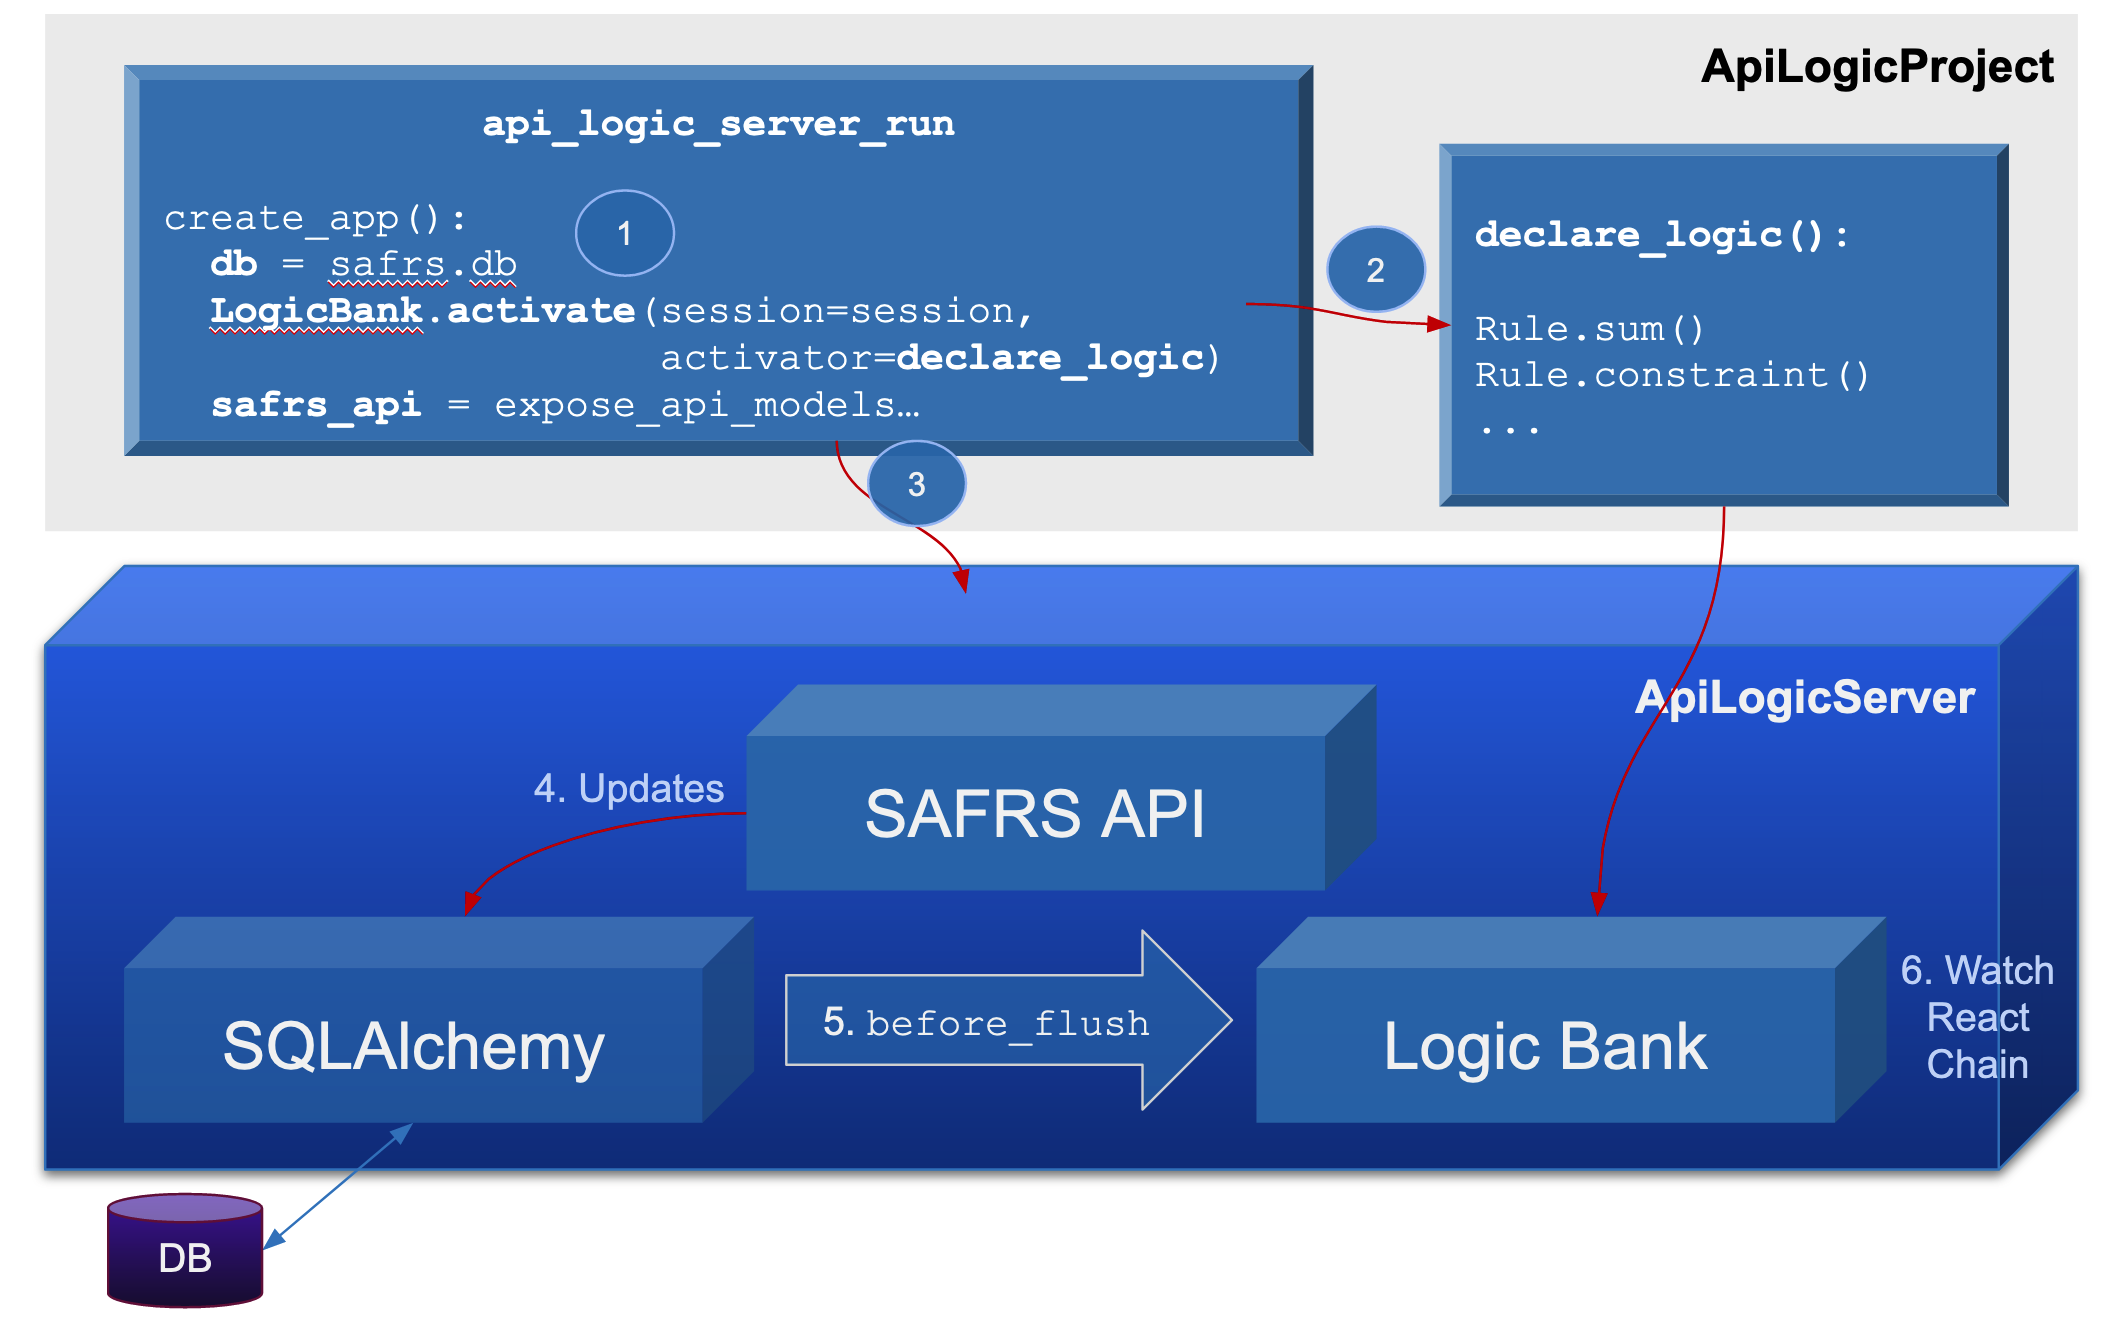
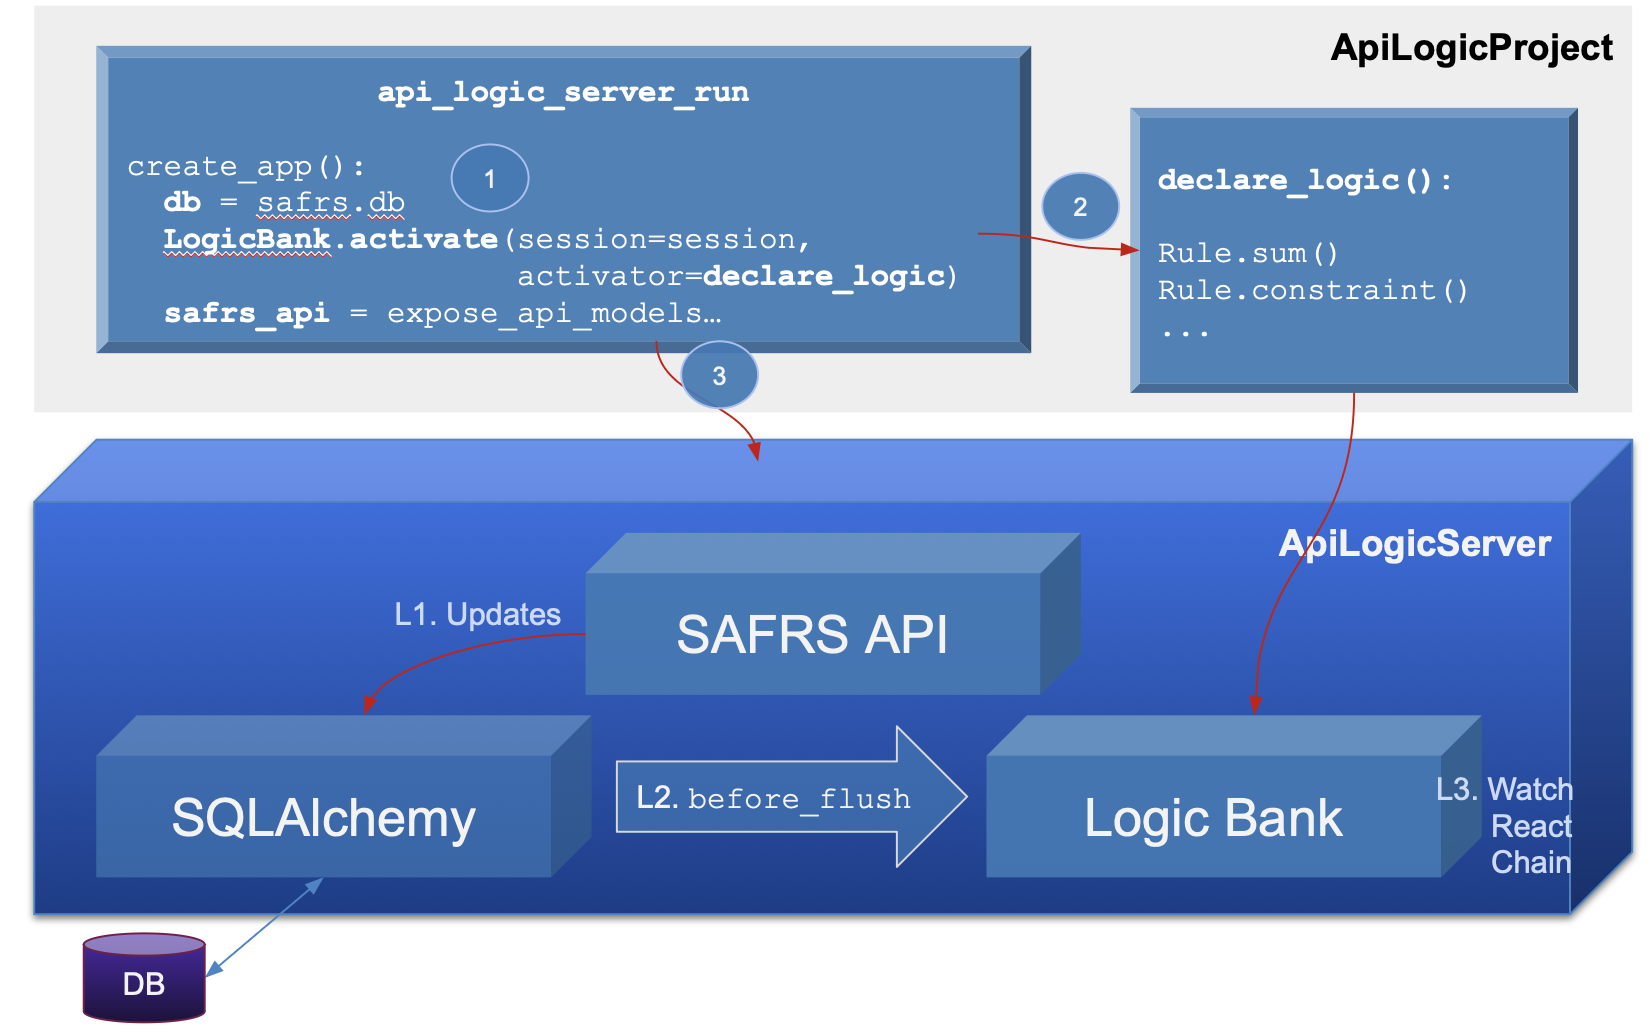
logic info

diff --git a/includes/pm_attr_list.py b/includes/pm_attr_list.py
@@ -1,0 +1,214 @@
+"""
+Attribute List Extension for Python-Markdown
+============================================
+
+Adds attribute list syntax. Inspired by
+[maruku](http://maruku.rubyforge.org/proposal.html#attribute_lists)'s
+feature of the same name.
+
+See <https://Python-Markdown.github.io/extensions/attr_list>
+for documentation.
+
+Original code Copyright 2011 [Waylan Limberg](http://achinghead.com/).
+
+All changes Copyright 2011-2014 The Python Markdown Project
+
+License: [BSD](https://opensource.org/licenses/bsd-license.php)
+
+Additional changes to allow list-wide and table-wide attributes 
+by Paul Melis, 2022
+"""
+
+import xml.etree.ElementTree as ET
+from markdown import Extension
+from markdown.treeprocessors import Treeprocessor
+import re
+
+
+def _handle_double_quote(s, t):
+    k, v = t.split('=', 1)
+    return k, v.strip('"')
+
+
+def _handle_single_quote(s, t):
+    k, v = t.split('=', 1)
+    return k, v.strip("'")
+
+
+def _handle_key_value(s, t):
+    return t.split('=', 1)
+
+
+def _handle_word(s, t):
+    if t.startswith('.'):
+        return '.', t[1:]
+    if t.startswith('#'):
+        return 'id', t[1:]
+    return t, t
+
+
+_scanner = re.Scanner([
+    (r'[^ =]+=".*?"', _handle_double_quote),
+    (r"[^ =]+='.*?'", _handle_single_quote),
+    (r'[^ =]+=[^ =]+', _handle_key_value),
+    (r'[^ =]+', _handle_word),
+    (r' ', None)
+])
+
+
+def get_attrs(str):
+    """ Parse attribute list and return a list of attribute tuples. """
+    return _scanner.scan(str)[0]
+
+
+def isheader(elem):
+    return elem.tag in ['h1', 'h2', 'h3', 'h4', 'h5', 'h6']
+
+def _dump_tree(level, elem):
+    extra = []
+    if elem.text:
+        extra.append('text=[%s]' % repr(elem.text))
+    if elem.tail:
+        extra.append('tail=[%s]' % repr(elem.tail))
+    e = ''
+    if len(extra) > 0:
+        e = '{' + ', '.join(extra) + '}'
+        
+    print('%s%s %s   %s' % (' '*(level*4), elem.tag, e, elem))
+    
+    if len(elem):
+        for child in elem:
+            _dump_tree(level+1, child)
+    
+def dump_tree(doc):        
+    for elem in doc.findall('.'):
+        _dump_tree(0, elem)
+
+def _gather_parents(parents, parent, elem):
+    #print(parent, elem, elem.tag, 'text='+repr(elem.text), 'tail='+repr(elem.tail))
+    if parent is not None:
+        parents[elem] = parent
+    tag = elem.tag
+    if tag in ['ol', 'ul', 'dl', 'table']:
+        parent = elem
+    for child in elem:
+        _gather_parents(parents, parent, child)        
+    return parents
+
+def gather_parents(doc):
+    parents = {}
+    for elem in doc.findall('.'):
+        _gather_parents(parents, None, elem)
+    return parents
+    
+
+class AttrListTreeprocessor(Treeprocessor):
+
+    BASE_RE = r'\{\:?[ ]*([^\}\n ][^\}\n]*)[ ]*\}'
+    HEADER_RE = re.compile(r'[ ]+{}[ ]*$'.format(BASE_RE))
+    BLOCK_RE = re.compile(r'\n[ ]*{}[ ]*$'.format(BASE_RE))
+    INLINE_RE = re.compile(r'^{}'.format(BASE_RE))
+    NAME_RE = re.compile(r'[^A-Z_a-z\u00c0-\u00d6\u00d8-\u00f6\u00f8-\u02ff'
+                         r'\u0370-\u037d\u037f-\u1fff\u200c-\u200d'
+                         r'\u2070-\u218f\u2c00-\u2fef\u3001-\ud7ff'
+                         r'\uf900-\ufdcf\ufdf0-\ufffd'
+                         r'\:\-\.0-9\u00b7\u0300-\u036f\u203f-\u2040]+')
+
+    def run(self, doc):
+        #dump_tree(doc)
+        parents = gather_parents(doc)
+        for elem in doc.iter():
+            parent = parents[elem] if elem in parents else None
+            if self.md.is_block_level(elem.tag):
+                # Block level: check for attrs on last line of text
+                RE = self.BLOCK_RE
+                if isheader(elem) or elem.tag in ['dt', 'td', 'th']:
+                    # header, def-term, or table cell: check for attrs at end of element
+                    RE = self.HEADER_RE
+                if len(elem) and elem.tag == 'li':
+                    # special case list items. children may include a ul or ol.
+                    pos = None
+                    # find the ul or ol position
+                    for i, child in enumerate(elem):
+                        if child.tag in ['ul', 'ol']:
+                            pos = i
+                            break
+                    if pos is None and elem[-1].tail:
+                        # use tail of last child. no ul or ol.
+                        m = RE.search(elem[-1].tail)
+                        if m:
+                            self.assign_attrs(elem, m.group(1), parent)
+                            elem[-1].tail = elem[-1].tail[:m.start()]
+                    elif pos is not None and pos > 0 and elem[pos-1].tail:
+                        # use tail of last child before ul or ol
+                        m = RE.search(elem[pos-1].tail)
+                        if m:
+                            self.assign_attrs(elem, m.group(1), parent)
+                            elem[pos-1].tail = elem[pos-1].tail[:m.start()]
+                    elif elem.text:
+                        # use text. ul is first child.
+                        m = RE.search(elem.text)
+                        if m:
+                            self.assign_attrs(elem, m.group(1), parent)
+                            elem.text = elem.text[:m.start()]
+                elif len(elem) and elem[-1].tail:
+                    # has children. Get from tail of last child
+                    m = RE.search(elem[-1].tail)
+                    if m:
+                        self.assign_attrs(elem, m.group(1), parent)
+                        elem[-1].tail = elem[-1].tail[:m.start()]
+                        if isheader(elem):
+                            # clean up trailing #s
+                            elem[-1].tail = elem[-1].tail.rstrip('#').rstrip()
+                elif elem.text:
+                    # no children. Get from text.
+                    m = RE.search(elem.text)
+                    if m:
+                        self.assign_attrs(elem, m.group(1), parent)
+                        elem.text = elem.text[:m.start()]
+                        if isheader(elem):
+                            # clean up trailing #s
+                            elem.text = elem.text.rstrip('#').rstrip()
+            else:
+                # inline: check for attrs at start of tail
+                if elem.tail:
+                    m = self.INLINE_RE.match(elem.tail)
+                    if m:
+                        self.assign_attrs(elem, m.group(1), parent)
+                        elem.tail = elem.tail[m.end():]
+
+    def assign_attrs(self, elem, attrs, parent=None):
+        """ Assign attrs to element. """
+        #print('assign_attrs(%s, %s, %s)' % (elem, attrs, parent))
+        apply_elem = elem
+        for k, v in get_attrs(attrs):
+            if k == '.':
+                # add to class
+                cls = apply_elem.get('class')
+                if cls:
+                    apply_elem.set('class', '{} {}'.format(cls, v))
+                else:
+                    apply_elem.set('class', v)
+            elif k == '^' and parent is not None:
+                # set remaining attributes on parent
+                apply_elem = parent
+            else:
+                # assign attr k with v
+                apply_elem.set(self.sanitize_name(k), v)
+
+    def sanitize_name(self, name):
+        """
+        Sanitize name as 'an XML Name, minus the ":"'
+        See https://www.w3.org/TR/REC-xml-names/#NT-NCName
+        """
+        return self.NAME_RE.sub('_', name)
+
+
+class PMAttrListExtension(Extension):
+    def extendMarkdown(self, md):
+        md.treeprocessors.register(AttrListTreeprocessor(md), 'pm_attr_list', 8)
+        md.registerExtension(self)
+
+
+def makeExtension(**kwargs):  # pragma: no cover
+    return PMAttrListExtension(**kwargs)

diff --git a/docs/Logic-Use.md b/docs/Logic-Use.md
@@ -1,0 +1,104 @@
+This page describes how to use the Rules.
+
+## Declaration and Activation
+
+Please see [Project Operation](../Architecture-Project-Operation){:target="_blank" rel="noopener"}.
+
+&nbsp;
+
+## Function vs. Lambda
+
+Constraint and Formula rules have arguments for providing an expression.  There are two ways to do this.
+
+For simple expressions, provide a lambda (inline) function, e.g.:
+
+```python
+    Rule.formula(derive=models.OrderDetail.Amount,  # compute price * qty
+        as_expression=lambda row: row.UnitPrice * row.Quantity)
+```
+
+To get access to `old_row` and `logic_row`, specify a function, e.g.:
+
+```python
+    """
+        Demonstrate that logic == Rules + Python (for extensibility)
+    """
+    def congratulate_sales_rep(row: models.Order, old_row: models.Order, logic_row: LogicRow):
+        """ use events for sending email, messages, etc. """
+        if logic_row.ins_upd_dlt == "ins":  # logic engine fills parents for insert
+            sales_rep = row.Employee        # parent accessor
+            if sales_rep is None:
+                logic_row.log("no salesrep for this order")
+            elif sales_rep.Manager is None:
+                logic_row.log("no manager for this order's salesrep")
+            else:
+                logic_row.log(f'Hi, {sales_rep.Manager.FirstName} - '
+                              f'Congratulate {sales_rep.FirstName} on their new order')
+            category_1 = logic_row.session.query(models.Category).filter(models.Category.Id == 1).one()
+            logic_row.log("Illustrate database access (not subject to authorization)")  # not granted for user: u2
+
+    Rule.commit_row_event(on_class=models.Order, calling=congratulate_sales_rep)
+```
+
+&nbsp;
+
+## LogicRow: old_row, verb, etc
+
+From the online documentation (use code completion):
+
+!!! pied-piper ":bulb: TL;DR - LogicRow provides access to `old_row`, `ins_upd_dlt` etc."
+
+        Wraps row and old_row, plus methods for insert, update and delete - rule enforcement
+
+        Passed to user logic, mainly to make updates - with logic, for example
+
+            row = sqlalchemy read logic_row.update(row=row, msg="my log message")
+
+        Additional instance variables: ins_upd_dlt, nest_level, session, etc.
+
+        Helper Methods
+            are_attributes_changed, set_same_named_attributes, get_parent_logic_row(role_name), get_derived_attributes, log, etc
+
+Here is another example:
+
+```python
+"""
+    STATE TRANSITION LOGIC, using old_row
+"""
+def raise_over_20_percent(row: models.Employee, old_row: models.Employee, logic_row: LogicRow):
+    if logic_row.ins_upd_dlt == "upd" and row.Salary > old_row.Salary:
+        return row.Salary >= Decimal('1.20') * old_row.Salary
+    else:
+        return True
+Rule.constraint(validate=models.Employee,
+                calling=raise_over_20_percent,
+                error_msg="{row.LastName} needs a more meaningful raise")
+```
+
+&nbsp;
+
+## Debugging
+
+Debug rules using system-generated logging and your IDE debugger.
+
+&nbsp;
+
+### Using the debugger
+
+Use the debugger as shown below.  Note you can stop in lambda functions.
+
+![Logic Debugger](images/logic/logic-debug.png)
+
+&nbsp;
+
+### Logic Log
+
+Logging is performed using standard Python logging, with a logger named `logic_logger`.  Use `info` for tracing, and `debug` for additional information (e.g., all declared rules are logged).
+
+In addition, the system logs all rules that fire, to aid in debugging.  Referring the the screen shot above:
+
+*   Each line represents a rule execution, showing row state (old/new values), and the _{reason}_ that caused the update (e.g., client, sum adjustment)
+*   Log indention shows multi-table chaining
+
+&nbsp;
+

diff --git a/docs/Architecture-Project-Operation.md b/docs/Architecture-Project-Operation.md
@@ -27,22 +27,37 @@ Execution begins in `api_logic_server_run.py`.  Your customizations are done to 
 
 SAFRS API listens for API calls, e.g., from the Admin App.  When updates are issued:
 
-4. **Invokes SQLAlchemy updates:** SAFRS calls SQLAlchemy, passing a set of rows comprising a database transaction
+ **L1. Invokes SQLAlchemy updates:** SAFRS calls SQLAlchemy, passing a set of rows comprising a database transaction
 
 
-5. **`before_flush`:** SQLAlchemy provides a `before_flush` event, where all the update rows are assembled and passed to `Logic Bank`  (no relation to retail!).
+**L2. `before_flush`:** SQLAlchemy provides a `before_flush` event, where all the update rows are assembled and passed to `Logic Bank`  (no relation to retail!).
 
 
-6. **Logic Execution:** Logic Bank reviews the rows, and based on what has change, prunes rules for unchanged data, and executes / optimizes relevant logic in an appropriate order.  
+**L3. Logic Execution:** Logic Bank reviews the rows, and based on what has change, prunes rules for unchanged data, and executes / optimizes relevant logic in an appropriate order.  
 
-### Declarative Logic is critical
+&nbsp;
 
-Logic addresses multi-table derivations, constraints, and actions such as sending messages or emails.  These can constitute nearly half the effort in transactional systems.
+### Row/Commit Logic
 
+The console log below illustrates that the rows are processed in 2 distinct "logic loops":
+
+* **Row Logic** - rules are executed, with chaining, as received in the `before_flush` event
+* **Commit Logic** - commit constraints and events are executed after *all row logic is complete**
+
+Two logic loops are provided so that parent logic can see all the adjustments of the child logic. 
+
+* When the Order is first seen at the top of the log, the OrderDetails have not yet been processed, so their adjustment logic has not been run.  So, sums/counts will be 0 (e.g. `OrderDetailCount`).
+
+* The Commit Logic loop is therefore provided after all the adjustment processing has occurred.
+
+    * So, if you want to verify that Orders have 1 or more OrderDetails by placing a constraint on `OrderDetailCount`, this would need to be a CommitConstraint.
+
+![Commit-logic](images/logic/logic-debug.png)
+
+&nbsp;
 
 ## Admin App Execution: `ui/admin/admin.yaml`
 
 [http://localhost:5656/](http://localhost:5656/) redirects to `ui/admin/index.html` which loads the react-admin single-page app into your browser.
 
 It then loads your `ui/admin/admin.yaml`, and responds to the various clicks by invoking the API (and hence the update logic), or the swagger at [http://localhost:5656/api](http://localhost:5656/api).
-
